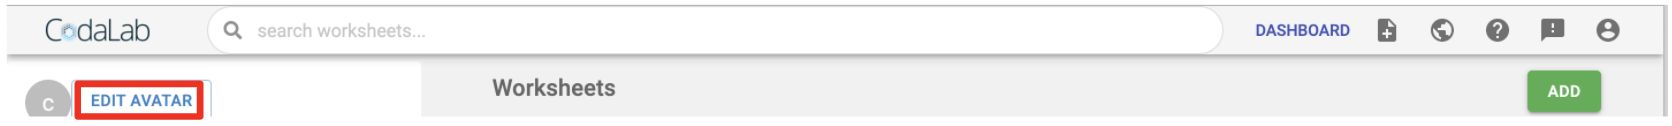
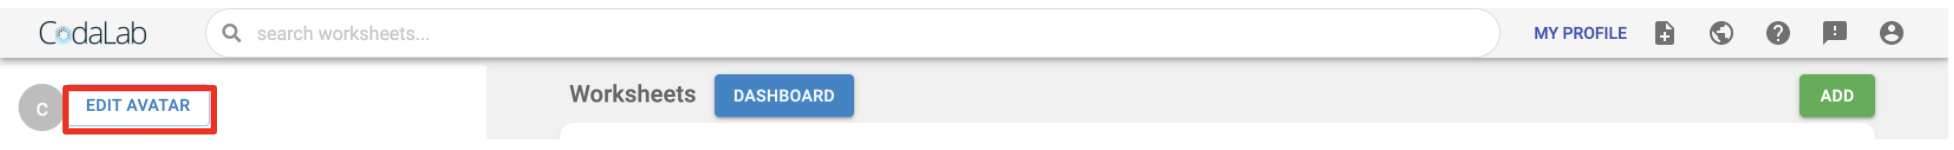
Update quickstart doc

Changed region(s): [[0.0, 0.0238, 1.0, 0.9286], [0.0, 0.5476, 0.1244, 0.9524], [0.0, 0.1429, 0.2488, 0.3333]]

diff --git a/docs/examples/quickstart.md b/docs/examples/quickstart.md
@@ -10,10 +10,10 @@ upload some code and data, and run your first experiment.
 1.  Go to [http://worksheets.codalab.org](http://worksheets.codalab.org) and click "Sign Up" in the top-right corner of the navigation bar.
 2.  Fill out the subsequent form.
 3.  A verification email will be sent to the email address you used to sign up. When you open it, there will be a link to follow in order to verify your account.
-4.  After verifying your account, sign in again. This will bring you to your **User Dashboard**. 
+4.  After verifying your account, sign in again. This will bring you to your **User Profile Page**. 
 This is the page where contains your account information, and an overview of your bundles and worksheets. 
-You can get back to this page at any time by clicking the "Dashboard" button in the top-right of the navigation bar or directly going to [http://worksheets.codalab.org/users](http://worksheets.codalab.org/users)
-![Dashboard](../images/quickstart/dashboard.png)
+You can get back to this page at any time by clicking the "MY PROFILE" button in the top-right of the navigation bar or directly going to [http://worksheets.codalab.org/users](http://worksheets.codalab.org/users)
+![Dashboard](../images/quickstart/profile.png)
 5. You can click the "Edit Avatar" button to upload and edit your profile image.
 ![Dashboard](../images/quickstart/edit-avatar.png)
 6. Your account information, including the usage of disk and time (these will only be visible to you), will be shown in the side bar of the dashboard.
@@ -21,7 +21,7 @@ You can get back to this page at any time by clicking the "Dashboard" button in 
 ![Dashboard](../images/quickstart/add-worksheet.png)
 
 #
-*You can also view the old "My Dashboard" worksheet by going to [http://worksheets.codalab.org/worksheets/?name=dashboard](http://worksheets.codalab.org/worksheets/?name=dashboard).
+*You can also view the old "My Dashboard" worksheet by clickng on the "Dashboard" button on the profile page or directly going to [http://worksheets.codalab.org/worksheets/?name=dashboard](http://worksheets.codalab.org/worksheets/?name=dashboard).
 This is a **special, read-only worksheet** that contains an
 overview of your bundles and worksheets.*
 
